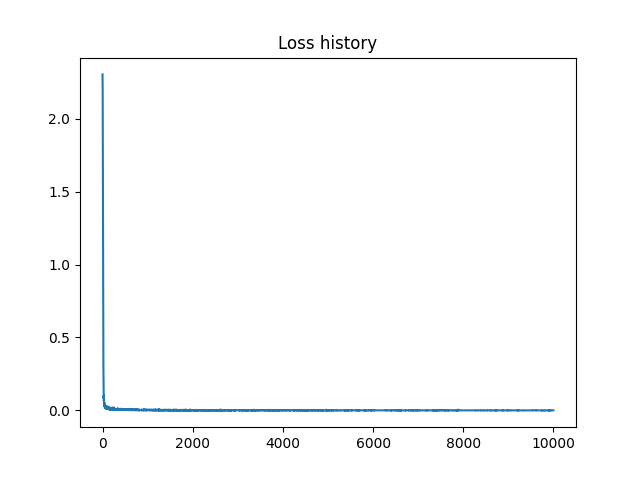
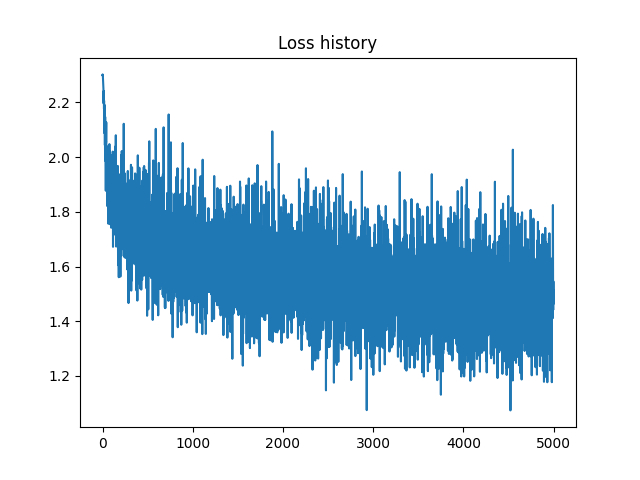
fix seminar 4

diff --git a/src/seminar3.py b/src/seminar3.py
@@ -41,8 +41,8 @@ def softmax_with_cross_entropy(Z, y):
 
 
 def l2_regularization(W, reg_strength):
-    loss = 0.5 * reg_strength * np.sum(W*W)
-    grad = np.dot(W, reg_strength)
+    loss = reg_strength * np.sum(W*W)
+    grad = 2 * np.dot(W, reg_strength)
     return loss, grad
 
 
@@ -110,8 +110,8 @@ class DenseLayer:
         # and gradients with respect to W and B
         # Add gradients of W and B to their `grad` attribute
 
-        self.B.grad += d_out.sum(0, keepdims=True)
-        self.W.grad += self.X.T @ d_out
+        self.B.grad = d_out.sum(0, keepdims=True)
+        self.W.grad = self.X.T @ d_out
         return d_out @ self.W.value.T
 
         # It should be pretty similar to linear classifier from
@@ -159,11 +159,11 @@ class TwoLayerNet:
         # Set layer parameters gradient to zeros
         # After that compute loss and gradients
         for layer in self.layers:
+            Z = layer.forward(Z)
             for param in layer.params().values():
                 param.grad = np.zeros_like(param.grad)
 
-        for layer in self.layers:
-            Z = layer.forward(Z)
+
 
         self.loss, self.d_out = softmax_with_cross_entropy(Z, y)
         return Z
@@ -179,7 +179,7 @@ class TwoLayerNet:
             for param in layer.params().values():
                 loss,grad = l2_regularization(param.value,self.reg)
                 self.loss += loss
-                param.grad += grad[0]
+                param.grad += grad
 
     def fit(self, X, y, learning_rate=1e-3, num_iters=10000,
             batch_size=4, verbose=True):

diff --git a/src/seminar4.py b/src/seminar4.py
@@ -182,7 +182,7 @@ class NeuralNetwork:
         num_classes = np.max(y) + 1
         loss_history = []
         for it in range(num_iters):
-            idxs = np.random.choice(num_classes, batch_size)
+            idxs = np.random.choice(len(X), batch_size)
             X_batch, y_batch = X[idxs], y[idxs]
             # evaluate loss and gradient
             z = self.forward(X_batch)
@@ -218,8 +218,8 @@ class NeuralNetwork:
 def train(model, x_train, y_train, x_test, y_test):
     # ***** START OF YOUR CODE *****
     learning_rate = 0.005
-    reg = 0.01
-    num_iters = 10000
+    reg = 0.1
+    num_iters = 5000
     batch_size = 64
     # ******* END OF YOUR CODE ************
     t0 = datetime.datetime.now()

diff --git a/output/seminar4/report.md b/output/seminar4/report.md
@@ -1,13 +1,13 @@
 # Training TwoLayer Model
-datetime: 2023-11-04 14:31:44  
-Well done in: 277 seconds  
+datetime: 2023-11-04 16:09:19  
+Well done in: 140 seconds  
 learning_rate = 0.005  
-reg = 0.01  
-num_iters = 10000  
+reg = 0.1  
+num_iters = 5000  
 batch_size = 64  
 
-Final loss: 0.0005416525485825292   
-Train accuracy: 0.16048   
-Test accuracy: 0.1624  
+Final loss: 1.4446854273210004   
+Train accuracy: 0.49228   
+Test accuracy: 0.4587  
 <br>
 <img src="loss.png">

diff --git a/output/seminar3/report.md b/output/seminar3/report.md
@@ -1,12 +1,12 @@
 # Training TwoLayer Model
-datetime: 2023-10-14 13:06:28  
-Well done in: 8 seconds  
+datetime: 2023-11-04 15:44:12  
+Well done in: 7 seconds  
 learning_rate = 0.01  
 reg = 0  
 num_iters = 1000  
 batch_size = 20  
 
-Final loss: 0.004122631649104422   
+Final loss: 0.004339331163719334   
 
 <img src="weights.png">  
 <br>
